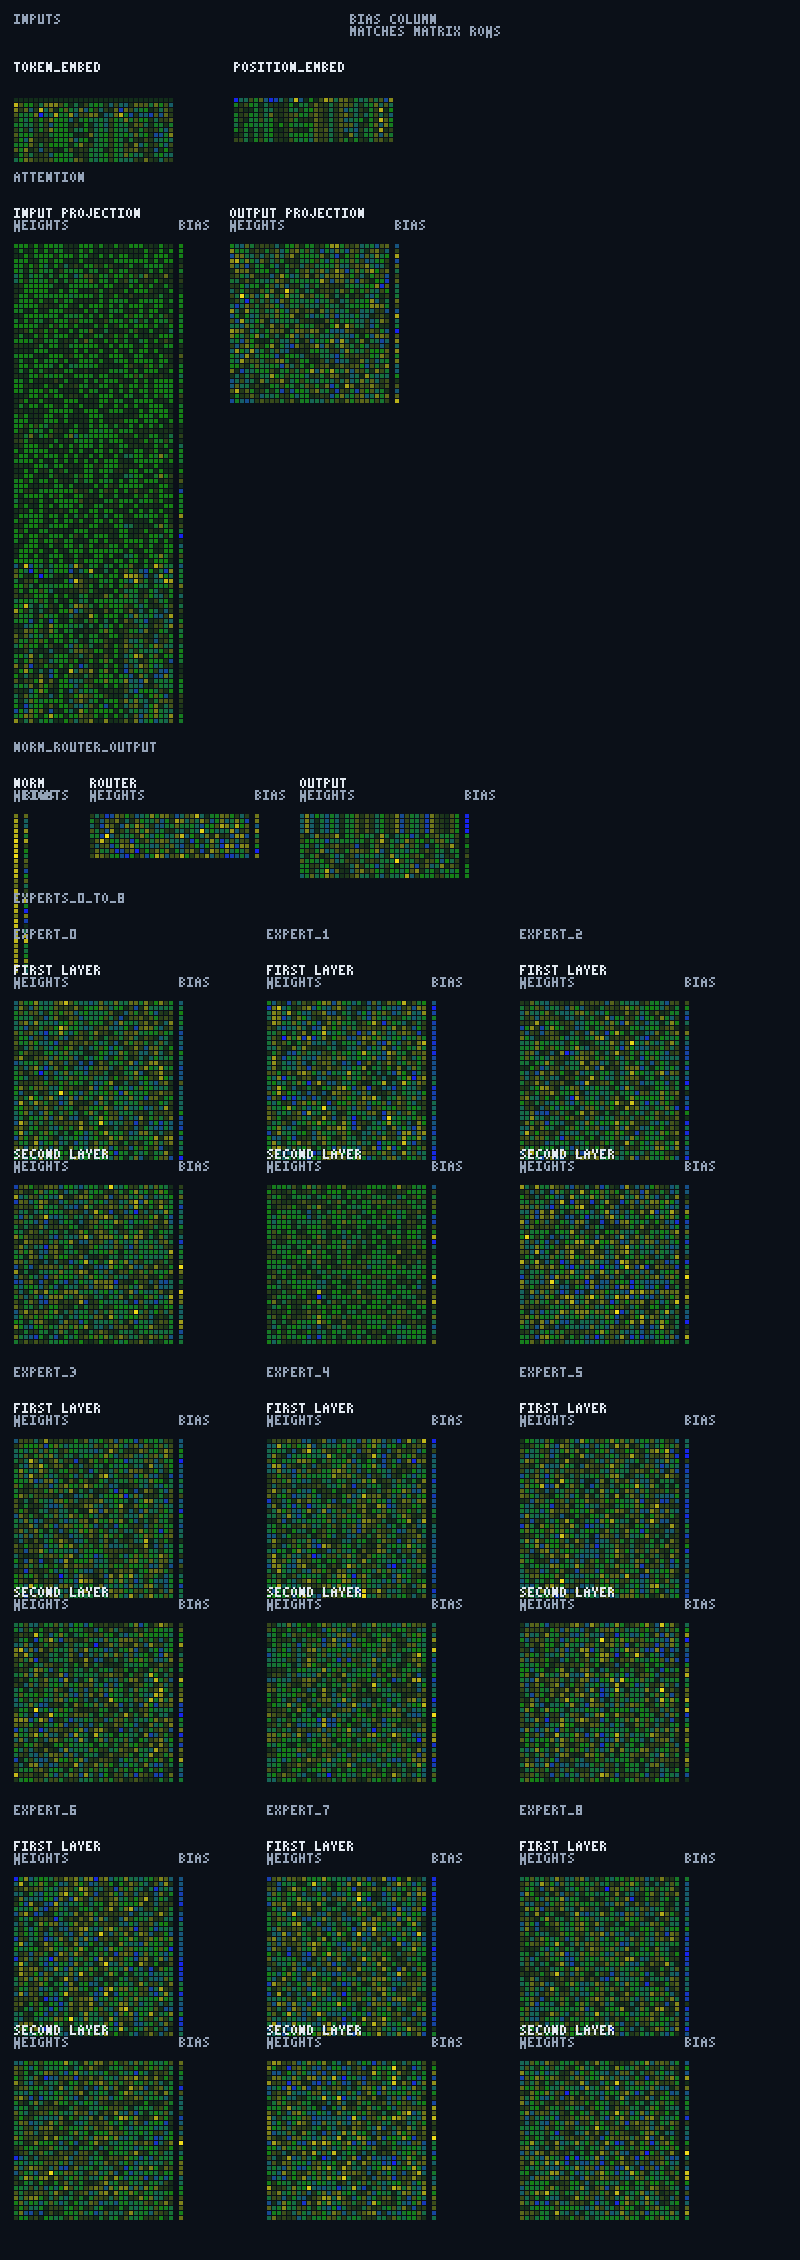
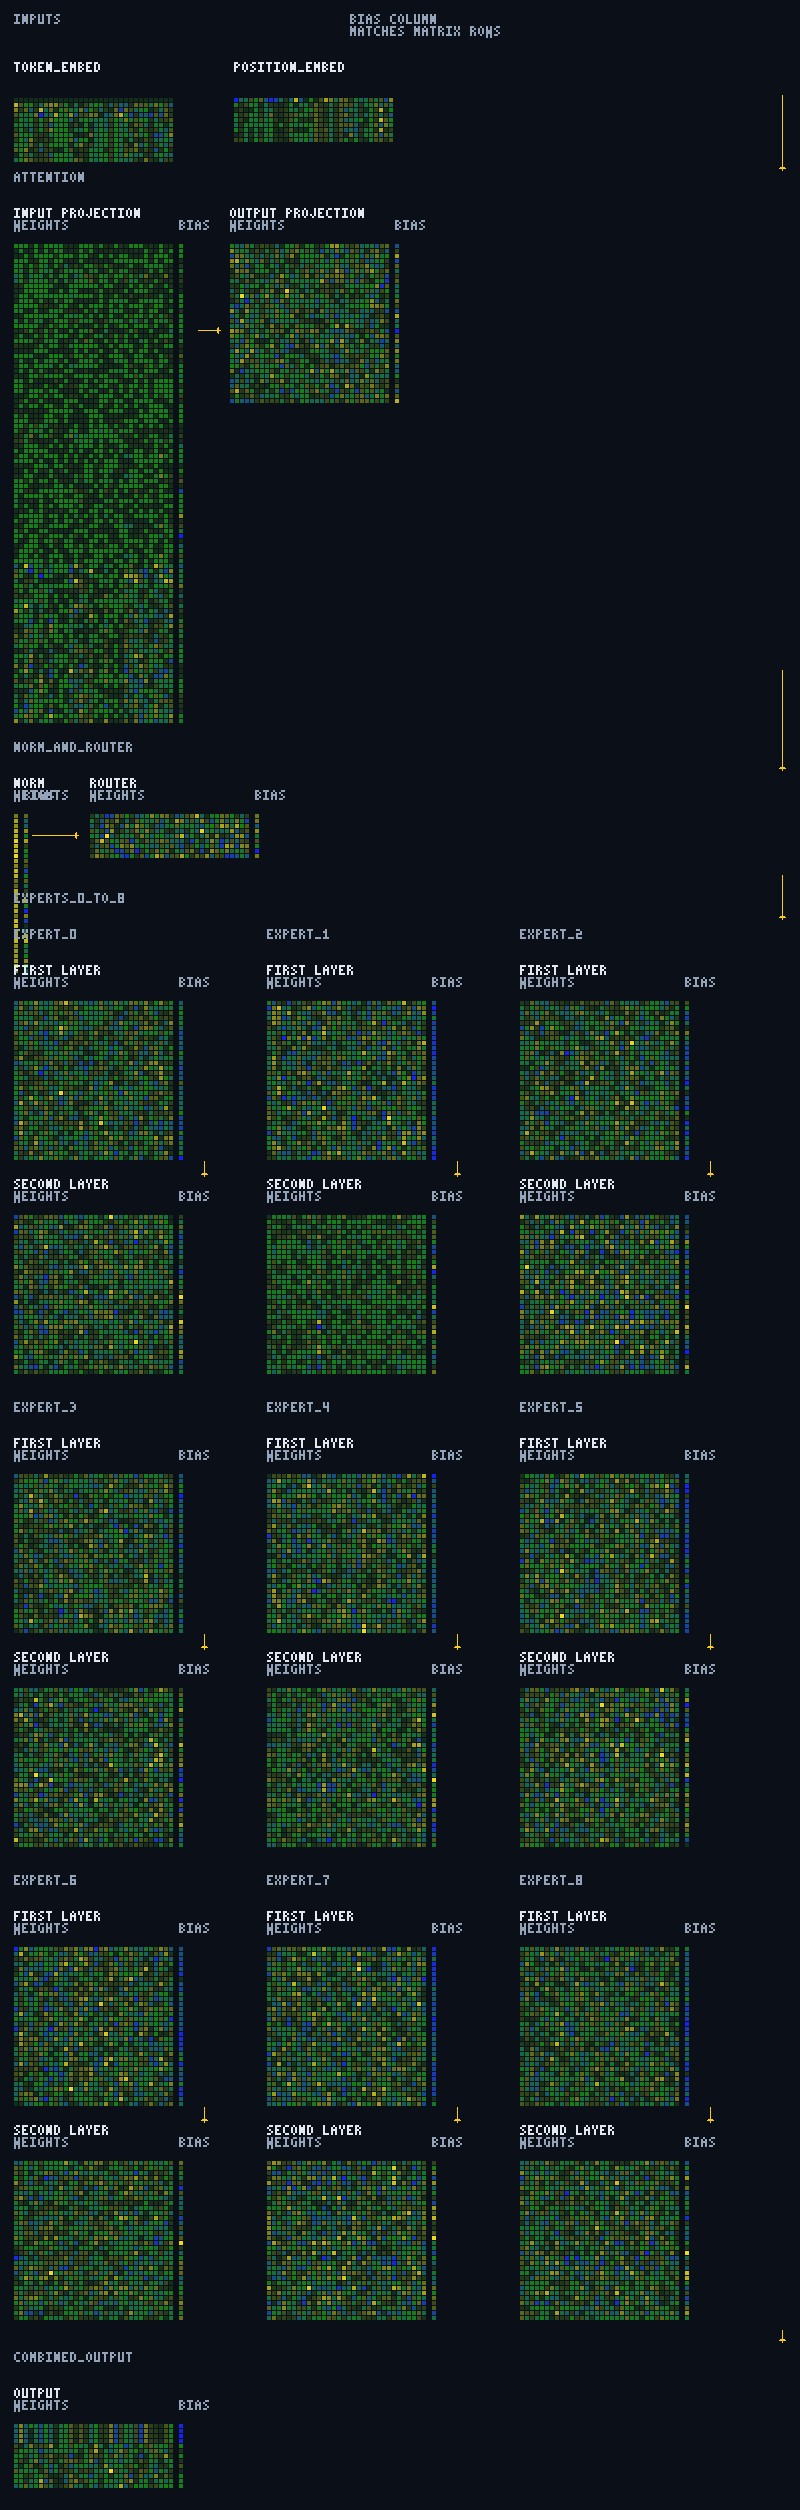
Add calculation flow arrows to tensor inspectors

diff --git a/tools/tensor_inspector.py b/tools/tensor_inspector.py
@@ -89,6 +89,31 @@ def _render_tensor(rgb: bytearray, width: int, tensor: torch.Tensor, x: int, y: 
     return columns * _CELL, rows * _CELL
 
 
+def _arrow(rgb: bytearray, width: int, x1: int, y1: int, x2: int, y2: int) -> None:
+    """Draw a thin, directional connector without covering tensor cells."""
+    color = (250, 204, 21)
+    if x1 == x2:
+        step = 1 if y2 >= y1 else -1
+        for y in range(y1, y2, step):
+            _pixel(rgb, width, x1, y, color)
+        tip = y2 - step * 2
+        for dx in (-3, -2, -1, 0, 1, 2, 3):
+            _pixel(rgb, width, x2 + dx, tip, color)
+        for dx in (-2, -1, 0, 1, 2):
+            _pixel(rgb, width, x2 + dx, tip - step, color)
+        _pixel(rgb, width, x2, y2, color)
+        return
+    step = 1 if x2 >= x1 else -1
+    for x in range(x1, x2, step):
+        _pixel(rgb, width, x, y1, color)
+    tip = x2 - step * 2
+    for dy in (-3, -2, -1, 0, 1, 2, 3):
+        _pixel(rgb, width, tip, y2 + dy, color)
+    for dy in (-2, -1, 0, 1, 2):
+        _pixel(rgb, width, tip - step, y2 + dy, color)
+    _pixel(rgb, width, x2, y2, color)
+
+
 def _render_pair(rgb: bytearray, width: int, state: dict[str, torch.Tensor], weight: str, bias: str, label: str, x: int, y: int) -> tuple[int, int]:
     _text(rgb, width, x, y, label, (226, 232, 240))
     grid_y = y + _HEADER_HEIGHT
@@ -111,7 +136,7 @@ def render_checkpoint_inspector(source: Path) -> tuple[bytes, dict[str, object]]
     state = _checkpoint_state(source)
     # Three complete expert columns are the widest section; avoid a fourth empty column.
     width = 800
-    height = 2260
+    height = 2510
     rgb = bytearray(b"\x0b\x10\x18" * (width * height))
     inventory = {
         name: {"shape": list(tensor.shape), "dtype": str(tensor.dtype).replace("torch.", ""),
@@ -134,31 +159,45 @@ def render_checkpoint_inspector(source: Path) -> tuple[bytes, dict[str, object]]
     _render_pair(rgb, width, state, "attention.out_proj.weight", "attention.out_proj.bias", "OUTPUT PROJECTION", 230, y)
     y += attention_height + _GAP
 
-    _text(rgb, width, _MARGIN, y, "NORM_ROUTER_OUTPUT", (148, 163, 184))
+    _text(rgb, width, _MARGIN, y, "NORM_AND_ROUTER", (148, 163, 184))
     y += _HEADER_HEIGHT
     _render_pair(rgb, width, state, "norm.weight", "norm.bias", "NORM", _MARGIN, y)
     _render_pair(rgb, width, state, "router.weight", "router.bias", "ROUTER", 90, y)
-    _render_pair(rgb, width, state, "output.weight", "output.bias", "OUTPUT", 300, y)
     y += 115
 
     _text(rgb, width, _MARGIN, y, "EXPERTS_0_TO_8", (148, 163, 184))
     y += _HEADER_HEIGHT
     expert_width = 235
-    expert_height = 420
+    expert_height = 455
     for expert in range(9):
         x = _MARGIN + (expert % 3) * (expert_width + _GAP)
         top = y + (expert // 3) * (expert_height + _GAP)
         _text(rgb, width, x, top, f"EXPERT_{expert}", (148, 163, 184))
         _render_pair(rgb, width, state, f"experts.{expert}.0.weight", f"experts.{expert}.0.bias", "FIRST LAYER", x, top + _HEADER_HEIGHT)
-        _render_pair(rgb, width, state, f"experts.{expert}.2.weight", f"experts.{expert}.2.bias", "SECOND LAYER", x, top + 220)
+        _render_pair(rgb, width, state, f"experts.{expert}.2.weight", f"experts.{expert}.2.bias", "SECOND LAYER", x, top + 250)
+        _arrow(rgb, width, x + 190, top + 232, x + 190, top + 247)
+
+    output_y = y + 3 * expert_height + 2 * _GAP + 22
+    _text(rgb, width, _MARGIN, output_y, "COMBINED_OUTPUT", (148, 163, 184))
+    _render_pair(rgb, width, state, "output.weight", "output.bias", "OUTPUT", _MARGIN, output_y + _HEADER_HEIGHT)
+
+    # These arrows describe the static calculation graph, not a live routing trace.
+    guide_x = width - 18
+    _arrow(rgb, width, guide_x, 95, guide_x, 170)
+    _arrow(rgb, width, guide_x, 670, guide_x, 770)
+    _arrow(rgb, width, guide_x, 875, guide_x, y - 10)
+    _arrow(rgb, width, guide_x, y + 3 * expert_height + 2 * _GAP, guide_x, output_y - 10)
+    _arrow(rgb, width, 198, 330, 220, 330)
+    _arrow(rgb, width, 32, 835, 78, 835)
 
     metadata = {
-        "format": "crystal-9-tensor-inspector-v2", "source": source.name,
+        "format": "crystal-9-tensor-inspector-v3", "source": source.name,
         "source_sha256": hashlib.sha256(source.read_bytes()).hexdigest(), "tensor_count": len(state),
-        "normalization": "per-tensor symmetric max-absolute", "layout": "architecture-grouped-v2",
+        "normalization": "per-tensor symmetric max-absolute", "layout": "architecture-flow-v3",
         "bias_alignment": "vertical output-row axis", "sections": ["inputs", "attention", "norm_router_output", "experts", "output"],
         "legend": {"WEIGHTS": "matrix; rows are output features", "BIAS": "bias column; one value per output row", "B": "bias column; one value per output row"},
         "expert_layout": "3x3 complete expert blocks, layer 1 above layer 2",
+        "calculation_flow": ["embeddings and positions", "attention", "norm and router", "top-2 routed experts", "combined output"],
         "tensors": inventory, "width": width, "height": height,
     }
     rows = b"".join(b"\0" + rgb[row * width * 3 : (row + 1) * width * 3] for row in range(height))

diff --git a/tests/test_tensor_inspector.py b/tests/test_tensor_inspector.py
@@ -15,8 +15,9 @@ def test_checkpoint_inspector_renders_actual_tensor_inventory_as_png():
     assert metadata["tensors"]["attention.in_proj_weight"]["shape"] == [96, 32]
     assert metadata["tensors"]["experts.0.0.weight"]["shape"] == [32, 32]
     assert metadata["normalization"] == "per-tensor symmetric max-absolute"
-    assert metadata["layout"] == "architecture-grouped-v2"
+    assert metadata["layout"] == "architecture-flow-v3"
     assert metadata["bias_alignment"] == "vertical output-row axis"
     assert metadata["sections"][-2:] == ["experts", "output"]
     assert metadata["legend"]["B"] == "bias column; one value per output row"
     assert metadata["expert_layout"] == "3x3 complete expert blocks, layer 1 above layer 2"
+    assert metadata["calculation_flow"] == ["embeddings and positions", "attention", "norm and router", "top-2 routed experts", "combined output"]

diff --git a/tools/export_tensor_inspectors.py b/tools/export_tensor_inspectors.py
@@ -31,7 +31,7 @@ def main() -> None:
             "tensor_count": metadata["tensor_count"], "width": metadata["width"], "height": metadata["height"],
             "normalization": metadata["normalization"], "derived": True,
         })
-    (OUTPUT.parent / "inspectors.json").write_text(json.dumps({"format": "crystal-9-tensor-inspector-v1", "inspectors": inspectors}, indent=2) + "\n")
+    (OUTPUT.parent / "inspectors.json").write_text(json.dumps({"format": "crystal-9-tensor-inspector-v3", "inspectors": inspectors}, indent=2) + "\n")
 
 
 if __name__ == "__main__":
